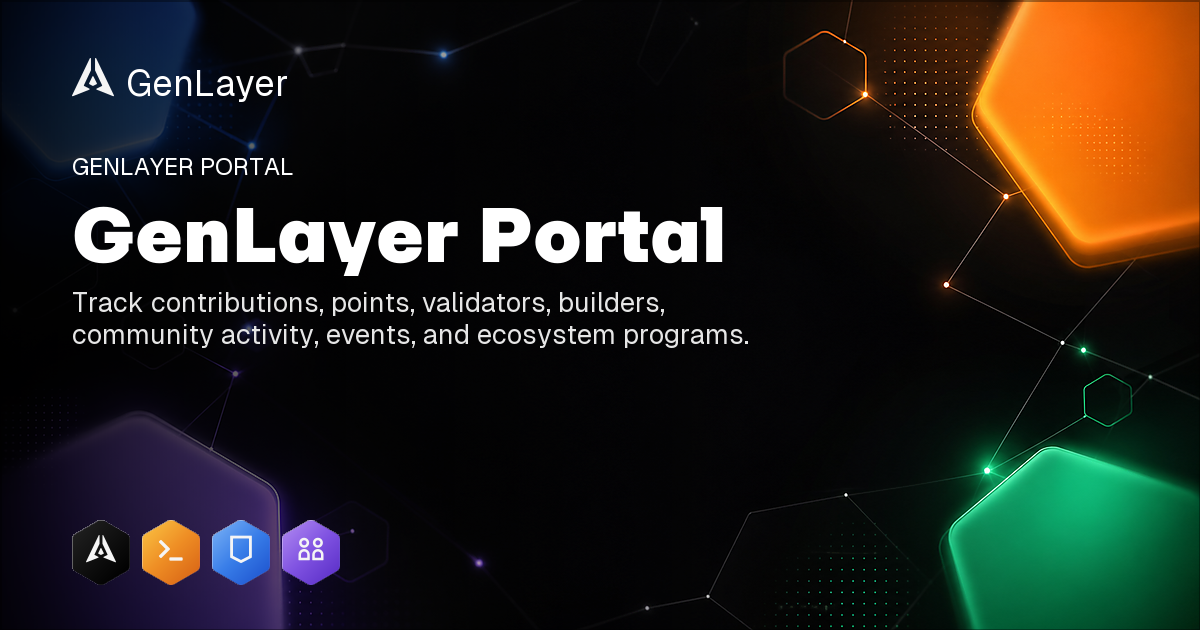
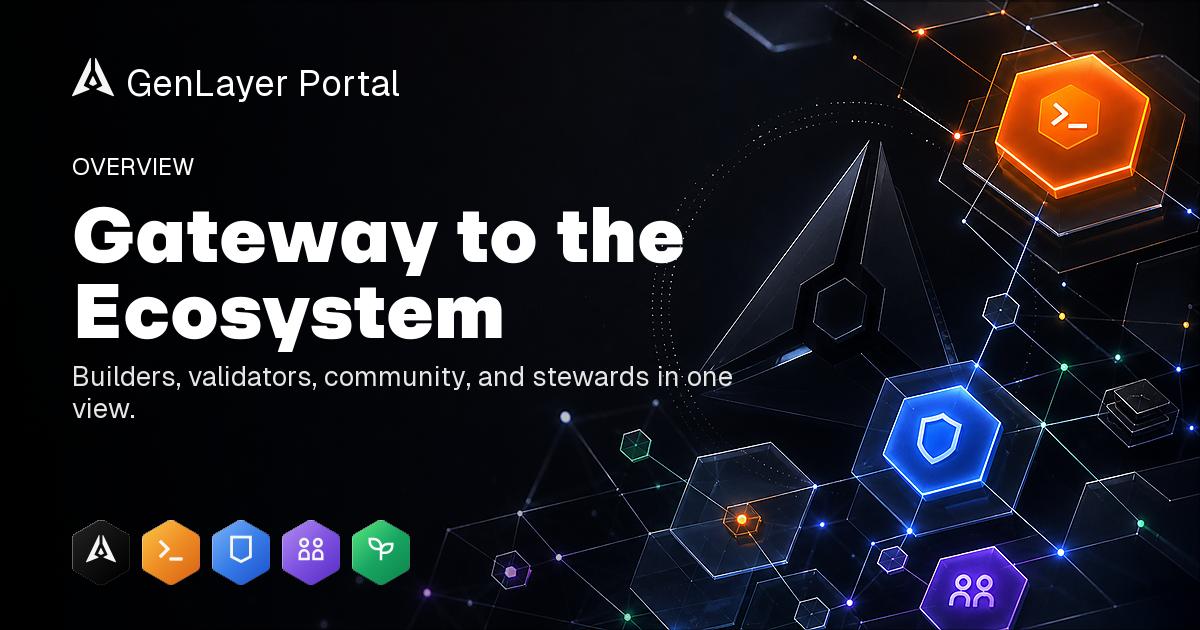
Update route OG previews (#840)

diff --git a/frontend/src/lib/routeMeta.js b/frontend/src/lib/routeMeta.js
@@ -12,6 +12,9 @@ const ogImage = (fileName) => ({
 
 export const OG_IMAGES = {
   portal: ogImage('portal.png'),
+  builders: ogImage('builders.png'),
+  validators: ogImage('validators.png'),
+  community: ogImage('community.png'),
   howItWorks: ogImage('how-it-works.png'),
   referral: ogImage('referral-program.png'),
   hackathon: ogImage('hackathon.png'),
@@ -27,7 +30,6 @@ export const OG_IMAGES = {
   builderProject: ogImage('builder-project.png'),
   communityPoaps: ogImage('community-poaps.png'),
   participants: ogImage('participants.png'),
-  validators: ogImage('validators-participants.png'),
   validatorsParticipants: ogImage('validators-participants.png'),
   validatorsWaitlist: ogImage('validators-waitlist.png'),
   validatorsWallOfShame: ogImage('validators-wall-of-shame.png'),
@@ -38,7 +40,7 @@ export const OG_IMAGES = {
 export const DEFAULT_META = {
   title: 'GenLayer Portal',
   description:
-    'Track GenLayer contributions, points, validators, builders, community activity, events, and ecosystem programs.',
+    'The front page of network progress across builders, validators, community, and stewards.',
   image: OG_IMAGES.portal.src,
   imageWidth: OG_IMAGES.portal.width,
   imageHeight: OG_IMAGES.portal.height,
@@ -103,6 +105,14 @@ export const ROUTE_META = {
     image: OG_IMAGES.referral.src,
     imageWidth: OG_IMAGES.referral.width,
     imageHeight: OG_IMAGES.referral.height,
+  },
+  '/builders': {
+    title: 'Build Contracts That Can Think | GenLayer Portal',
+    description:
+      'Create Intelligent Contracts that read the web, reason, and resolve outcomes on GenLayer.',
+    image: OG_IMAGES.builders.src,
+    imageWidth: OG_IMAGES.builders.width,
+    imageHeight: OG_IMAGES.builders.height,
   },
   '/hackathon': {
     title: 'Testnet Bradbury Hackathon',
@@ -200,6 +210,14 @@ export const ROUTE_META = {
     imageWidth: OG_IMAGES.builderProject.width,
     imageHeight: OG_IMAGES.builderProject.height,
   },
+  '/community': {
+    title: 'Grow the Adjudication Layer for the Agentic Economy | GenLayer Portal',
+    description:
+      'Test, create, report, and grow the GenLayer network from day one.',
+    image: OG_IMAGES.community.src,
+    imageWidth: OG_IMAGES.community.width,
+    imageHeight: OG_IMAGES.community.height,
+  },
   '/community/poaps': {
     title: 'GenLayer Community POAPs',
     description:
@@ -233,9 +251,9 @@ export const ROUTE_META = {
     imageHeight: OG_IMAGES.participants.height,
   },
   '/validators': {
-    title: 'GenLayer Validators',
+    title: 'Adjudicate the Agentic Economy | GenLayer Portal',
     description:
-      'Explore GenLayer validator programs, operator activity, contribution opportunities, leaderboards, and network reliability signals.',
+      'Run AI models, reason through disputes, and earn for judgment as a GenLayer validator.',
     image: OG_IMAGES.validators.src,
     imageWidth: OG_IMAGES.validators.width,
     imageHeight: OG_IMAGES.validators.height,
@@ -295,6 +313,7 @@ const NOINDEX_ROUTE_PATHS = new Set([
 ]);
 
 export const STATIC_OG_ROUTES = [
+  '/builders',
   '/how-it-works',
   '/referral-program',
   '/hackathon',
@@ -308,6 +327,7 @@ export const STATIC_OG_ROUTES = [
   '/ecosystem-partners',
   '/builders/resources',
   '/community/poaps',
+  '/community',
   '/participants',
   '/validators',
   '/validators/participants',

diff --git a/frontend/index.html b/frontend/index.html
@@ -10,13 +10,13 @@
   <!-- Primary Meta Tags -->
   <meta name="robots" content="index,follow,max-image-preview:large,max-snippet:-1,max-video-preview:-1">
   <meta name="title" content="GenLayer Portal">
-  <meta name="description" content="Track GenLayer contributions, points, validators, builders, community activity, events, and ecosystem programs.">
+  <meta name="description" content="The front page of network progress across builders, validators, community, and stewards.">
 
   <!-- Open Graph / Facebook -->
   <meta property="og:type" content="website">
   <meta property="og:url" content="https://portal.genlayer.foundation/">
   <meta property="og:title" content="GenLayer Portal">
-  <meta property="og:description" content="Track GenLayer contributions, points, validators, builders, community activity, events, and ecosystem programs.">
+  <meta property="og:description" content="The front page of network progress across builders, validators, community, and stewards.">
   <meta property="og:image" content="https://portal.genlayer.foundation/assets/og/portal.png">
   <meta property="og:image:width" content="1200">
   <meta property="og:image:height" content="630">
@@ -27,7 +27,7 @@
   <meta name="twitter:card" content="summary_large_image">
   <meta name="twitter:url" content="https://portal.genlayer.foundation/">
   <meta name="twitter:title" content="GenLayer Portal">
-  <meta name="twitter:description" content="Track GenLayer contributions, points, validators, builders, community activity, events, and ecosystem programs.">
+  <meta name="twitter:description" content="The front page of network progress across builders, validators, community, and stewards.">
   <meta name="twitter:image" content="https://portal.genlayer.foundation/assets/og/portal.png">
   <meta name="twitter:site" content="@GenLayer">
 
@@ -55,7 +55,7 @@
           "@id": "https://portal.genlayer.foundation/#website",
           "url": "https://portal.genlayer.foundation/",
           "name": "GenLayer Portal",
-          "description": "Track GenLayer contributions, points, validators, builders, community activity, events, and ecosystem programs.",
+          "description": "The front page of network progress across builders, validators, community, and stewards.",
           "publisher": {
             "@id": "https://portal.genlayer.foundation/#organization"
           },
@@ -68,7 +68,7 @@
           "name": "GenLayer Portal",
           "applicationCategory": "DeveloperApplication",
           "operatingSystem": "Web",
-          "description": "A portal for GenLayer builders, validators, community contributors, events, points, and ecosystem programs.",
+          "description": "The front page of network progress across builders, validators, community, and stewards.",
           "publisher": {
             "@id": "https://portal.genlayer.foundation/#organization"
           }

diff --git a/frontend/src/tests/routeMeta.test.js b/frontend/src/tests/routeMeta.test.js
@@ -14,6 +14,7 @@ import {
 
 const expectedRouteImages = {
   '/': '/assets/og/portal.png',
+  '/builders': '/assets/og/builders.png',
   '/how-it-works': '/assets/og/how-it-works.png',
   '/referral-program': '/assets/og/referral-program.png',
   '/hackathon': '/assets/og/hackathon.png',
@@ -26,9 +27,10 @@ const expectedRouteImages = {
   '/gen-news': '/assets/og/gen-news.png',
   '/ecosystem-partners': '/assets/og/ecosystem-partners.png',
   '/builders/resources': '/assets/og/builders-resources.png',
+  '/community': '/assets/og/community.png',
   '/community/poaps': '/assets/og/community-poaps.png',
   '/participants': '/assets/og/participants.png',
-  '/validators': '/assets/og/validators-participants.png',
+  '/validators': '/assets/og/validators.png',
   '/validators/participants': '/assets/og/validators-participants.png',
   '/validators/waitlist/join': '/assets/og/validators-waitlist.png',
   '/validators/wall-of-shame': '/assets/og/validators-wall-of-shame.png',
@@ -152,6 +154,7 @@ describe('route metadata', () => {
 
   it('only generates static OG pages for canonical route paths', () => {
     expect(STATIC_OG_ROUTES).toEqual([
+      '/builders',
       '/how-it-works',
       '/referral-program',
       '/hackathon',
@@ -165,6 +168,7 @@ describe('route metadata', () => {
       '/ecosystem-partners',
       '/builders/resources',
       '/community/poaps',
+      '/community',
       '/participants',
       '/validators',
       '/validators/participants',

diff --git a/frontend/scripts/render-og-images.py b/frontend/scripts/render-og-images.py
@@ -40,6 +40,7 @@ ROLE_HEXAGONS = {
     "builder": ASSETS / "icons" / "hexagon-builder.svg",
     "validator": ASSETS / "icons" / "hexagon-validator.svg",
     "community": ASSETS / "icons" / "hexagon-community.svg",
+    "steward": ASSETS / "icons" / "hexagon-steward.svg",
 }
 
 ROLE_INNER_ICONS = {
@@ -47,6 +48,7 @@ ROLE_INNER_ICONS = {
     "builder": ASSETS / "icons" / "terminal-fill-white.svg",
     "validator": ASSETS / "icons" / "shield-white.svg",
     "community": ASSETS / "icons" / "group-white.svg",
+    "steward": ASSETS / "icons" / "seedling-line-white.svg",
 }
 
 LOGO_SYMBOLS = {
@@ -58,12 +60,46 @@ LOGO_SYMBOLS = {
 CARDS = [
     {
         "file": "portal",
-        "backdrop": "portal",
+        "backdrop": "portal-overview",
         "theme": "dark",
-        "eyebrow": "GenLayer Portal",
-        "title": "GenLayer Portal",
-        "description": "Track contributions, points, validators, builders, community activity, events, and ecosystem programs.",
-        "roles": ["genlayer", "builder", "validator", "community"],
+        "eyebrow": "Overview",
+        "title": "Gateway to the Ecosystem",
+        "description": "Builders, validators, community, and stewards in one view.",
+        "brand": "GenLayer Portal",
+        "roles": ["genlayer", "builder", "validator", "community", "steward"],
+    },
+    {
+        "file": "builders",
+        "backdrop": "builders",
+        "theme": "dark",
+        "eyebrow": "Builders",
+        "title": "Build Contracts That Can Think",
+        "description": "Create Intelligent Contracts that read the web, reason, and resolve outcomes.",
+        "brand": "GenLayer Portal",
+        "roles": ["builder"],
+    },
+    {
+        "file": "validators",
+        "backdrop": "validators-landing",
+        "theme": "dark",
+        "eyebrow": "Validators",
+        "title": "Adjudicate the Agentic Economy",
+        "description": "Run AI models, reason through disputes, and earn for judgment.",
+        "brand": "GenLayer Portal",
+        "roles": ["validator"],
+    },
+    {
+        "file": "community",
+        "backdrop": "community",
+        "theme": "dark",
+        "eyebrow": "Community",
+        "title": "Grow the Adjudication Layer for the Agentic Economy",
+        "description": "Test, create, report, and grow the GenLayer network from day one.",
+        "brand": "GenLayer Portal",
+        "title_max_lines": 4,
+        "title_max_size": 64,
+        "title_max_width": 620,
+        "roles": ["community"],
     },
     {
         "file": "how-it-works",
@@ -318,8 +354,14 @@ def wrap_text(text: str, draw: ImageDraw.ImageDraw, text_font: ImageFont.FreeTyp
     return lines
 
 
-def fit_title(draw: ImageDraw.ImageDraw, text: str, max_width: int, max_lines: int) -> tuple[ImageFont.FreeTypeFont, list[str]]:
-    for size in range(84, 55, -2):
+def fit_title(
+    draw: ImageDraw.ImageDraw,
+    text: str,
+    max_width: int,
+    max_lines: int,
+    max_size: int = 84,
+) -> tuple[ImageFont.FreeTypeFont, list[str]]:
+    for size in range(max_size, 55, -2):
         title_font = font(TITLE_FONT_PATH, size)
         lines = wrap_text(text, draw, title_font, max_width)
         if len(lines) <= max_lines:
@@ -344,7 +386,7 @@ def draw_multiline(
     return y
 
 
-def draw_brand(base: Image.Image, theme: str) -> None:
+def draw_brand(base: Image.Image, theme: str, label: str = "GenLayer") -> None:
     palette = THEMES[theme]
     logo_color = palette["logo"]
     symbol = render_svg(LOGO_SYMBOLS[logo_color], 42)
@@ -354,7 +396,7 @@ def draw_brand(base: Image.Image, theme: str) -> None:
 
     draw = ImageDraw.Draw(base)
     brand_font = font(BODY_FONT_PATH, 36)
-    draw.text((x + 54, y + 1), "GenLayer", font=brand_font, fill=palette["accent"])
+    draw.text((x + 54, y + 1), label, font=brand_font, fill=palette["accent"])
 
 
 def draw_role_hexes(base: Image.Image, roles: list[str]) -> None:
@@ -365,7 +407,7 @@ def draw_role_hexes(base: Image.Image, roles: list[str]) -> None:
     gap = 12
     x = 72
     y = HEIGHT - 110
-    for role in roles[:4]:
+    for role in roles[:5]:
         icon_path = ROLE_HEXAGONS.get(role)
         if not icon_path:
             continue
@@ -390,13 +432,19 @@ def render_card(card: dict[str, object]) -> None:
     base = base.filter(ImageFilter.UnsharpMask(radius=1, percent=105, threshold=3))
     add_readability_overlay(base, theme)
 
-    draw_brand(base, theme)
+    draw_brand(base, theme, str(card.get("brand", "GenLayer")))
     draw = ImageDraw.Draw(base)
 
     eyebrow_font = font(BODY_FONT_PATH, 24)
     draw.text((72, 150), str(card["eyebrow"]).upper(), font=eyebrow_font, fill=palette["muted"])
 
-    title_font, title_lines = fit_title(draw, str(card["title"]), 690, 3)
+    title_font, title_lines = fit_title(
+        draw,
+        str(card["title"]),
+        int(card.get("title_max_width", 690)),
+        int(card.get("title_max_lines", 3)),
+        int(card.get("title_max_size", 84)),
+    )
     title_bottom = draw_multiline(draw, (72, 190), title_lines, title_font, palette["title"], 6)
 
     body_font = font(BODY_FONT_PATH, 27)